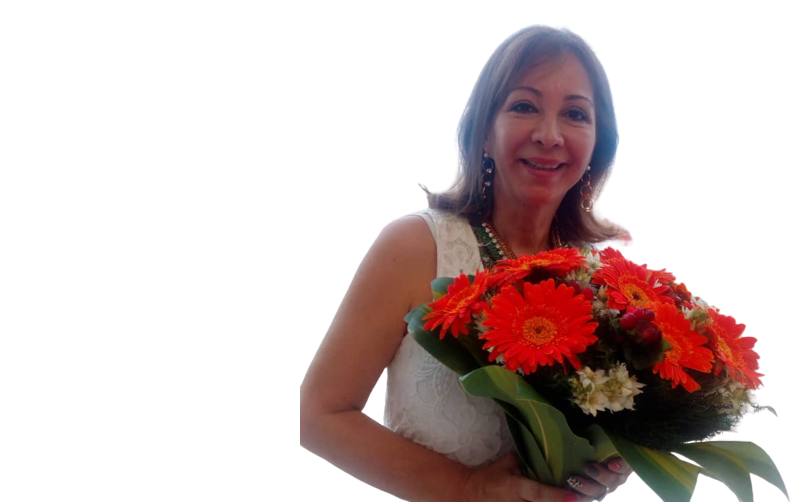
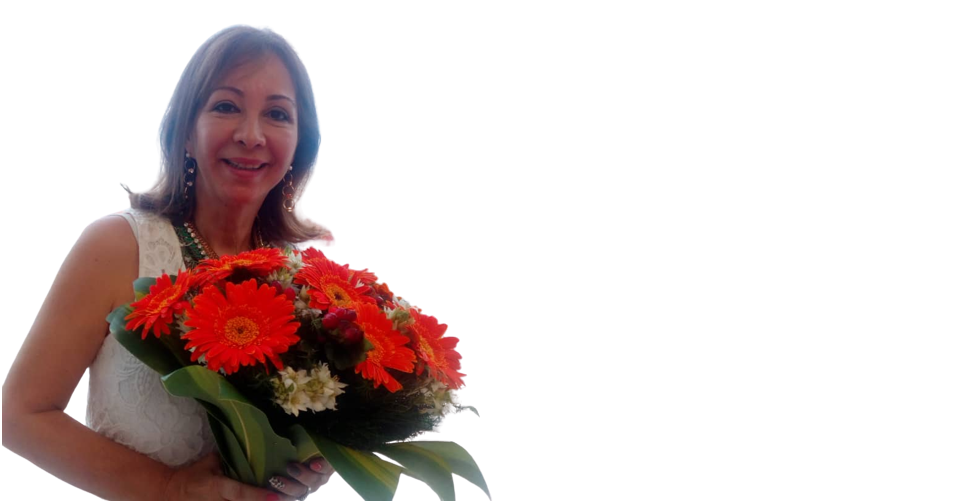
updating sobre mi position, first showup of the page, button show more

diff --git a/index.html b/index.html
@@ -10,7 +10,7 @@
     <meta name="viewport" content="width=device-width, initial-scale=1.0">
     <title>Doctora Raquel Ariza | Médico Cirujano | Táchira</title>
     <!-- Debo cambiar este script por uno propio para CRISP-->
-    <script type="text/javascript">window.$crisp=[];window.CRISP_WEBSITE_ID="1fac7013-6087-4f81-bba6-7d79e88a922e";(function(){d=document;s=d.createElement("script");s.src="https://client.crisp.chat/l.js";s.async=1;d.getElementsByTagName("head")[0].appendChild(s);})();</script>
+    <!--<script type="text/javascript">window.$crisp=[];window.CRISP_WEBSITE_ID="1fac7013-6087-4f81-bba6-7d79e88a922e";(function(){d=document;s=d.createElement("script");s.src="https://client.crisp.chat/l.js";s.async=1;d.getElementsByTagName("head")[0].appendChild(s);})();</script>-->
     <!-- Debo añadir aquí la URL doctoraraquelariza.com, esta es la MASTER URL-->
     <link rel="canonical" href="doctoraraquelariza.com"> 
     <link rel="preconnect" href="https://fonts.googleapis.com">
@@ -19,6 +19,9 @@
     <link rel="preconnect" href="https://fonts.googleapis.com">
 <link rel="preconnect" href="https://fonts.gstatic.com" crossorigin>
 <link href="https://fonts.googleapis.com/css2?family=Marck+Script&display=swap" rel="stylesheet">
+<link rel="preconnect" href="https://fonts.googleapis.com">
+<link rel="preconnect" href="https://fonts.gstatic.com" crossorigin>
+<link href="https://fonts.googleapis.com/css2?family=Poppins&display=swap" rel="stylesheet">
     <!-- Falta logo favicon pestaña, depende de logo-->
     <link rel="stylesheet" href="styles.css">
     <link rel="stylesheet" href="bootstrap-5.2.2-dist/css/bootstrap.css"> <!-- Bootstrap folder css-->
@@ -27,18 +30,18 @@
     <script src="app.js" defer></script>
     <link rel="preload" as="image" href="https://i0.wp.com/lanacionweb.com//fotoedicion/2022/09/blanco-.jpg?fit=1936%2C1288&ssl=1">
 </head>
-<body>
+<body data-bs-spy="scroll" data-bs-target=".navbar" data-bs-offset="50">
     <header>
         <nav class="navbar navbar-expand-lg fixed-top bg-light">
             <div class="container-fluid">
-              <a class="navbar-brand fs-1" href="">DRA. <span class="fw-bold">RAQUEL ARIZA</span></a>
+              <a class="navbar-brand fs-6" href="">DRA. <span class="fw-bolder">RAQUEL ARIZA</span></a>
               <button class="navbar-toggler" type="button" data-bs-toggle="collapse" data-bs-target="#navbarSupportedContent" aria-controls="navbarSupportedContent" aria-expanded="false" aria-label="Toggle navigation">
                 <span class="navbar-toggler-icon"></span>
               </button>
               <div class="collapse navbar-collapse justify-content-end" id="navbarSupportedContent">
                 <ul class="navbar-nav mb-2 mb-lg-0">
                   <li class="nav-item">
-                    <a class="nav-link active" aria-current="page" href="#">INICIO</a>
+                    <a class="nav-link active" aria-current="page" href="#inicio">INICIO</a>
                   </li>
                   <li class="nav-item">
                     <a class="nav-link" href="#sobre-mi">SOBRE MÍ</a>
@@ -64,7 +67,7 @@
         </header>
         <main>
             <!-- CAROUSEL-->
-            <div class="container-fluid carousel cont" style="padding: 0;">
+            <div class="container-fluid carousel cont" style="padding: 0;" id="inicio">
                 <div id="carouselExampleIndicators" class="carousel slide carousel-fade" data-bs-ride="carousel">
                     <!--
                     <div class="carousel-indicators">
@@ -75,27 +78,27 @@
                     -->
                     <div class="carousel-inner">
                       <div class="carousel-item active" data-bs-interval="5000">
-                        <img id="test" src="https://i0.wp.com/lanacionweb.com//fotoedicion/2022/09/blanco-.jpg?fit=1936%2C1288&ssl=1" class="d-block w-100" alt="Doctora Raquel Ariza CORPOSALUD">
-                        <div class="hero-text" style="color:white">
-                          <h1 class="display-1 fw-bold">DRA. <br> RAQUEL ARIZA</h1>
-                          <p>A su servicio!</p>
-                          <button>Contáctame!</button>
-                        </div>
-                      </div>
-                      <div class="carousel-item" data-bs-interval="5000">
-                        <img src="https://img.freepik.com/foto-gratis/doctora-vistiendo-bata-laboratorio-estetoscopio-aislado_1303-29797.jpg?w=2000" class="d-block w-100" alt="Doctora Raquel Ariza">
-                        <div class="hero-text">
-                          <h1 class="display-1 fw-bold">Dra. <br> Raquel Ariza</h1>
-                          <p>Directora Regional de Salud Ambiental</p>
-                          <button>Contáctame!</button>
-                        </div>
-                      </div>
-                      <div class="carousel-item" data-bs-interval="5000">
                         <img src="media/Doctora_Flores-removebg-preview - Copy.png" class="d-block w-100" alt="Doctora Raquel Ariza">
+                        <div class="hero-text" style="color:white">
+                          <h1 class="display-1 fw-bold titling">DRA.<br><span class="fw-bolder">RAQUEL ARIZA</span></h1>
+                          <p class="desc">Médico Internista - Directora General de Salud Ambiental</p>
+                          <button class="contactame">CONTÁCTAME!</button>
+                        </div>
+                      </div>
+                      <div class="carousel-item" data-bs-interval="5000">
+                        <img src="https://img.freepik.com/foto-gratis/doctora-vistiendo-bata-laboratorio-estetoscopio-aislado_1303-29797.jpg?w=2000" class="d-block w-100" alt="Doctora Raquel Ariza" loading="lazy">
                         <div class="hero-text">
-                          <h1 class="display-1 fw-bold">Dra. <br> Raquel Ariza</h1>
-                          <p>Médico Cirujano</p>
-                          <button>Contáctame!</button>
+                          <h1 class="display-1 fw-bold titling">DRA.<br><span class="fw-bolder">RAQUEL ARIZA</span></h1>
+                          <p class="desc">Directora Regional de Salud Ambiental</p>
+                          <button class="contactame">CONTÁCTAME!</button>
+                        </div>
+                      </div>
+                      <div class="carousel-item" data-bs-interval="5000">
+                        <img id="test" src="https://i0.wp.com/lanacionweb.com//fotoedicion/2022/09/blanco-.jpg?fit=1936%2C1288&ssl=1" class="d-block w-100" alt="Doctora Raquel Ariza CORPOSALUD" loading="lazy">
+                        <div class="hero-text">
+                          <h1 class="display-1 fw-bold titling">DRA.<br><span class="fw-bolder">RAQUEL ARIZA</span></h1>
+                          <p class="desc">Médico Cirujano</p>
+                          <button class="contactame">CONTÁCTAME!</button>
                         </div>
                       </div>
                     </div>
@@ -116,22 +119,31 @@
             <!-- BOXES-->
             <div class="container-fluid neg-marg">
               <div class="row">
-                <div class="col-lg-3 box">aqui</div>
-                <div class="col-lg-5 box">va</div>
-                <div class="col-lg-4 box">info</div>
+                <div class="col-lg-4 box mt-4 p-5 bg-primary text-white">
+                  <h1 class="text-white">AGENDA UNA CITA</h1>
+                  <p>Lorem ipsum...</p>
+                </div>
+                <div class="col-lg-4 box mt-4 p-5 bg-primary text-white">
+                  <h1 class="text-white">EMERGENCIAS</h1>
+                  <p>Lorem ipsum...</p>
+                </div>
+                <div class="col-lg-4 box mt-4 p-5 bg-primary text-white">
+                  <h1 class="text-white">CONFERENCIAS</h1>
+                  <p>Lorem ipsum...</p>
+                </div>
               </div>
             </div>
             <!-- BOXES-->
             <!-- SOBRE MI-->
             <div class="container-fluid pad" id="sobre-mi">
               <div class="row">
-                <div class="col-lg-6">
-                  <img src="https://demo.joomshaper.com/2016/doctor/images/2016/09/09/home-doctor.png" class="img-fluid" alt="">
-                </div>
                 <div class="col-lg-6 d-flex flex-column align-items-center justify-content-evenly">
                   <h2 class="display-2 fw-semibold">SOBRE MÍ</h2>
                   <p class="lead text-start">Lorem ipsum dolor sit amet consectetur adipisicing elit. Explicabo nostrum soluta laudantium in consequuntur quaerat dolorem autem eveniet tempora. Magni dolores odio mollitia illo ex quis! Autem, deleniti, illo quo molestiae tempora, in dolore iusto voluptatibus voluptates eligendi odit repudiandae sint animi necessitatibus consequatur omnis. Reiciendis dicta provident numquam rerum?</p>
                   <p class="lead text-start">Lorem ipsum dolor sit amet consectetur adipisicing elit. Explicabo nostrum soluta laudantium in consequuntur quaerat dolorem autem eveniet tempora. Magni dolores odio mollitia illo ex quis! Autem, deleniti, illo quo molestiae tempora, in dolore iusto voluptatibus voluptates eligendi odit repudiandae sint animi necessitatibus consequatur omnis. Reiciendis dicta provident numquam rerum?</p>
+                </div>
+                <div class="col-lg-6">
+                  <img src="https://demo.joomshaper.com/2016/doctor/images/2016/09/09/home-doctor.png" class="img-fluid" alt="" loading="lazy">
                 </div>
               </div>
             </div>
@@ -146,7 +158,7 @@
                   <!-- /----/ FIRST-->
                   <div class="col-md-4">
                     <div class="card showup" style="width: 18rem; display: none;">
-                      <a href="http://corposaludtachira.gob.ve/?p=5646" target="_blank"><img src="media/Doctora-Raquel-Ariza-Autoexamen-Corposalud-Prevencion-Cancer.jpeg" class="card-img-top" alt="Doctora Raquel Ariza Corposalud"></a>
+                      <a href="http://corposaludtachira.gob.ve/?p=5646" target="_blank"><img src="media/Doctora-Raquel-Ariza-Autoexamen-Corposalud-Prevencion-Cancer.jpeg" class="card-img-top" alt="Doctora Raquel Ariza Corposalud" loading="lazy"></a>
                       <div class="card-body">
                         <h5 class="card-title">Consulta de mama</h5>
                         <p class="card-text">Corposalud invita a las mujeres a realizarse examen de la autoexploración mamaria.</p>
@@ -173,7 +185,7 @@
                   <!-- /----/SECOND-->
                   <div class="col-md-4">
                     <div class="card showup" style="width: 18rem; display: none;">
-                      <a href="http://www.tachira.gob.ve/2014/09/15/promueven-la-toma-de-citologia-para-la-deteccion-precoz-del-cancer-de-cuello-uterino/" target="_blank"><img src="media/Doctora-Raquel-Ariza-Toma-Citologia-Deteccion-Cancer-Uterino.jpg" class="card-img-top" alt="Doctora Raquel Ariza Toma de Citología CORPOSALUDAD"></a>
+                      <a href="http://www.tachira.gob.ve/2014/09/15/promueven-la-toma-de-citologia-para-la-deteccion-precoz-del-cancer-de-cuello-uterino/" target="_blank"><img src="media/Doctora-Raquel-Ariza-Toma-Citologia-Deteccion-Cancer-Uterino.jpg" class="card-img-top" alt="Doctora Raquel Ariza Toma de Citología CORPOSALUDAD" loading="lazy"></a>
                       <div class="card-body">
                         <h5 class="card-title">Toma de citología</h5>
                         <p class="card-text">Promueven la toma de citología para la detección precoz del cáncer de cuello uterino.</p>
@@ -200,7 +212,7 @@
                   <!-- /----/THIRD-->
                   <div class="col-md-4">
                     <div class="card showup" style="width: 18rem; display: none;">
-                      <a href="https://lanacionweb.com/regional/no-hay-reactivos-ni-kit-de-especulos-para-jornadas-de-despistaje-de-cancer/" target="_blank"><img src="https://i0.wp.com/lanacionweb.com//fotoedicion/2022/09/blanco-.jpg?resize=696%2C463&ssl=1" class="card-img-top" alt="Doctora Raquel Ariza Reactivos Jornadas Despistaje Cancer"></a>
+                      <a href="https://lanacionweb.com/regional/no-hay-reactivos-ni-kit-de-especulos-para-jornadas-de-despistaje-de-cancer/" target="_blank"><img src="https://i0.wp.com/lanacionweb.com//fotoedicion/2022/09/blanco-.jpg?resize=696%2C463&ssl=1" class="card-img-top" alt="Doctora Raquel Ariza Reactivos Jornadas Despistaje Cancer" loading="lazy"></a>
                       <div class="card-body">
                         <h5 class="card-title">No hay reactivos ni kit de espéculos para jornadas de despistaje de cáncer</h5>
                         <p class="card-text">En el estado Táchira se cuenta con programas que ayudan al pacientes a prevenir y tratar el cáncer, en sus distintos estadíos.</p>
@@ -228,16 +240,15 @@
               </div>
               <!-- /----/-->
               <p class="text-center">
-                <a id="ver-mas" class="btn btn-primary" data-bs-toggle="collapse" href="#collapseExample" role="button" aria-expanded="false" aria-controls="collapseExample">
-                  <span id="ver-mas-loader" class="spinner-border spinner-border-sm mostrar" role="status" aria-hidden="true"></span>Ver más
-                </a>
+                <a id="ver-mas" class="btn btn-info btn-lg w-50 mt-5" data-bs-toggle="collapse" href="#collapseExample" role="button" aria-expanded="false" aria-controls="collapseExample" type="button">Ver más entrevistas</a>
+                <span id="ver-mas-loader" class="spinner-border spinner-border-sm mostrar" role="status" aria-hidden="true"></span>
               </p>
               <div class="collapse" id="collapseExample" data-bs-parent="#accordion">
               <div class="row">
                 <!-- /----/FOURTH-->
                 <div class="col-md-4">
                   <div class="card showup" style="width: 18rem; display: none;">
-                    <a href="http://corposaludtachira.gob.ve/?p=4462" target="_blank"><img src="http://corposaludtachira.gob.ve/wp-content/uploads/2018/03/FO-30MAR2018-Raquel-Ariza-prevenci%C3%B3n-del-c%C3%A1ncer-de-colon-2-1-1024x576.jpg" class="card-img-top" alt="Doctora Raquel Ariza Corposalud"></a>
+                    <a href="http://corposaludtachira.gob.ve/?p=4462" target="_blank"><img src="http://corposaludtachira.gob.ve/wp-content/uploads/2018/03/FO-30MAR2018-Raquel-Ariza-prevenci%C3%B3n-del-c%C3%A1ncer-de-colon-2-1-1024x576.jpg" class="card-img-top" alt="Doctora Raquel Ariza Corposalud" loading="lazy"></a>
                     <div class="card-body">
                       <h5 class="card-title">“Evitar una vida sedentaria y adquirir buenos hábitos alimenticios contribuyen a la prevención del cáncer de colon”</h5>
                       <p class="card-text">... Raquel Ariza, adjunta al programa de Control y Prevención de Cáncer de la Corporación de Salud del Estado, aprovechó la oportunidad para hacer un llamado a la prevención de esta enfermedad a partir de las mejoras en los hábitos alimenticios, ingesta de agua adecuada, evitar el estreñimiento, y hacer ejercicios.</p>
@@ -264,7 +275,7 @@
                 <!-- /----/FIFTH-->
                 <div class="col-md-4">
                   <div class="card showup" style="width: 18rem; display: none;">
-                    <a href="http://corposaludtachira.gob.ve/?p=4838" target="_blank"><img src="http://corposaludtachira.gob.ve/wp-content/uploads/2018/05/FO-17May2018-Dr-Luis-Ramirez-Presidente-de-Corposalud-Con-botones-y-reconocimientos-Corposalud-realza-labor-de-los-enfermeros-Corposalud-3.jpg" class="card-img-top" alt="Doctora Raquel Ariza Corposalud"></a>
+                    <a href="http://corposaludtachira.gob.ve/?p=4838" target="_blank"><img src="http://corposaludtachira.gob.ve/wp-content/uploads/2018/05/FO-17May2018-Dr-Luis-Ramirez-Presidente-de-Corposalud-Con-botones-y-reconocimientos-Corposalud-realza-labor-de-los-enfermeros-Corposalud-3.jpg" class="card-img-top" alt="Doctora Raquel Ariza Corposalud" loading="lazy"></a>
                     <div class="card-body">
                       <h5 class="card-title">Con botones y reconocimientos Corposalud realza labor de los enfermeros</h5>
                       <p class="card-text">El acto estuvo presidido por el Presidente de Corposalud, doctor Luís Ramírez, en compañía de David Omaña  y Raquel Ariza, director principal y jefe de Salud colectiva y redes, Yraima Guerrero, coordinadora regional de enfermería y Daniel Lizcano, presidente del Colegio de Enfermeros del Táchira.</p>
@@ -291,7 +302,7 @@
                 <!-- /----/SIXTH-->
                 <div class="col-md-4">
                   <div class="card showup" style="width: 18rem; display: none;">
-                    <a href="https://diariodelosandes.com/site/programas-de-corposalud-recibieron-dotacion-de-medicamentos-por-parte-de-mpps/" target="_blank"><img src="https://diariodelosandes.com/site/wp-content/uploads/2018/12/FO07DIC2018Corposalud-recibio-gran-dotaci%C3%B3n-de-medicamentos-640x480.jpg" class="card-img-top" alt="Doctora Raquel Ariza Corposalud"></a>
+                    <a href="https://diariodelosandes.com/site/programas-de-corposalud-recibieron-dotacion-de-medicamentos-por-parte-de-mpps/" target="_blank"><img src="https://diariodelosandes.com/site/wp-content/uploads/2018/12/FO07DIC2018Corposalud-recibio-gran-dotaci%C3%B3n-de-medicamentos-640x480.jpg" class="card-img-top" alt="Doctora Raquel Ariza Corposalud" loading="lazy"></a>
                     <div class="card-body">
                       <h5 class="card-title">Programas de Corposalud recibieron dotación de medicamentos por parte de MPPS</h5>
                       <p class="card-text">La doctora Raquel Ariza, jefe de Salud Colectiva y Redes de Corposalud declaró sentirse satisfecha por esta gran dotación de medicamentos, que serán distribuidos de la mejor manera entre los pacientes que lo necesitan “ya que es vital para la vida de ellos”.</p>
@@ -323,7 +334,7 @@
             <h2 class="display-1">Jornadas</h2>
             <p class="lead text-start">Lorem ipsum, dolor sit amet consectetur adipisicing elit. Aliquam ratione velit placeat iusto explicabo necessitatibus, eum voluptate hic quae sed molestiae, quasi iure aliquid facere voluptatem culpa. Libero ad accusamus, fuga, numquam quae quo voluptate fugit consequatur incidunt tempore minima.</p>
             <p class="text-center display-4 fw-normal">PRÓXIMAS <span class="fw-bold">JORNADAS</span></p>
-            <img src="media/NOVIEMBRE.png" class="img-fluid" alt="" style="padding: 5vw 10vw 10vw">
+            <img src="media/NOVIEMBRE.png" class="img-fluid" alt="" style="padding: 5vw 10vw 10vw" loading="lazy">
           </div>
             
             

diff --git a/styles.scss b/styles.scss
@@ -38,14 +38,34 @@ header {
 }
 
 .hero-text {
-    text-align: left;
     position: absolute;
     top: 50%;
-    left: 5%;
+    right: 3%;
     transform: translate(0, -50%);
     color: rgb(56, 56, 56);
-    z-index: 2;
+    z-index: 3;
+    width: 45vw;
+    display: flex;
+    flex-direction: column;
+    justify-content: space-around;
   }
+
+.desc {
+    color:rgb(56, 56, 56);
+    text-align: left;
+    font-style: italic;
+}
+
+.contactame {
+    background-color: rgba(29,175,237,0.95);
+    border-radius: 5px;
+    padding: 10px 20px;
+    border: none;
+    color: white;
+    font-weight: bolder;
+    font-family: globals.$logo2-font;
+    letter-spacing: 1px;
+}
 
 h1, h2, span, .navbar-brand {
     font-family: globals.$logo2-font;
@@ -58,16 +78,18 @@ span {
 
 .nav-link {
     border-radius: 3px;
+    font-family: globals.$nav-font;
 }
 
 .nav-link:hover {
     background-color: rgba(17,115,185,0.95);
     transition: all 0.7s ease-in-out;
     color: white !important;
-    transform: scale(1,1.2)
+    transform: scale(1,1.1);
 }
 
 .mostrar {
+    display: none;
     visibility: hidden;
 }
 
@@ -103,4 +125,18 @@ span {
     &:nth-of-type(3) {
         background-color: rgba(59,205,231,0.95);
     }
+    h1 {
+        font-family: globals.$logo2-font;
+    }
+    p {
+        font-family: globals.$nav-font;
+        font-weight: lighter;
+    }
+}
+
+@media only screen and (max-width: 600px) {
+    .d-block {
+        aspect-ratio: 4 / 3;
+    }
+  
 }

diff --git a/styles.css b/styles.css
@@ -36,13 +36,33 @@ header {
 }
 
 .hero-text {
-  text-align: left;
   position: absolute;
   top: 50%;
-  left: 5%;
+  right: 3%;
   transform: translate(0, -50%);
   color: rgb(56, 56, 56);
-  z-index: 2;
+  z-index: 3;
+  width: 45vw;
+  display: flex;
+  flex-direction: column;
+  justify-content: space-around;
+}
+
+.desc {
+  color: rgb(56, 56, 56);
+  text-align: left;
+  font-style: italic;
+}
+
+.contactame {
+  background-color: rgba(29, 175, 237, 0.95);
+  border-radius: 5px;
+  padding: 10px 20px;
+  border: none;
+  color: white;
+  font-weight: bolder;
+  font-family: "Titillium Web", sans-serif;
+  letter-spacing: 1px;
 }
 
 h1, h2, span, .navbar-brand {
@@ -56,16 +76,18 @@ span {
 
 .nav-link {
   border-radius: 3px;
+  font-family: "Poppins", sans-serif;
 }
 
 .nav-link:hover {
   background-color: rgba(17, 115, 185, 0.95);
   transition: all 0.7s ease-in-out;
   color: white !important;
-  transform: scale(1, 1.2);
+  transform: scale(1, 1.1);
 }
 
 .mostrar {
+  display: none;
   visibility: hidden;
 }
 
@@ -101,6 +123,19 @@ span {
 }
 .box:nth-of-type(3) {
   background-color: rgba(59, 205, 231, 0.95);
+}
+.box h1 {
+  font-family: "Titillium Web", sans-serif;
+}
+.box p {
+  font-family: "Poppins", sans-serif;
+  font-weight: lighter;
+}
+
+@media only screen and (max-width: 600px) {
+  .d-block {
+    aspect-ratio: 4/3;
+  }
 }
 
 /*# sourceMappingURL=styles.css.map */

diff --git a/app.js b/app.js
@@ -8,13 +8,15 @@ $(document).ready(function() {
   });
   $("#ver-mas").click(function() {
     $("#ver-mas-loader").toggleClass("mostrar");
+    $("#ver-mas").text($(this).text() == "Ver más entrevistas" ? "Ver menos entrevistas" : "Ver más entrevistas");
+    setTimeout(() => {
+      $("#ver-mas-loader").addClass("mostrar");
+    }, 500);
   })
 }); 
-/*
-let logo = document.querySelector(".navbar-brand");
 
-logo.onclick = () => {
-  location.reload();
-}
-
-*/
+new PerformanceObserver((entryList) => {
+  for (const entry of entryList.getEntries()) {
+    console.log('LCP candidate:', entry.startTime, entry);
+  }
+}).observe({type: 'largest-contentful-paint', buffered: true});

diff --git a/_globals.scss b/_globals.scss
@@ -1,3 +1,4 @@
 $main-color: rgb(170, 20, 20);
 $logo-font: 'Marck Script', cursive;
 $logo2-font: 'Titillium Web', sans-serif;
+$nav-font: 'Poppins', sans-serif;
